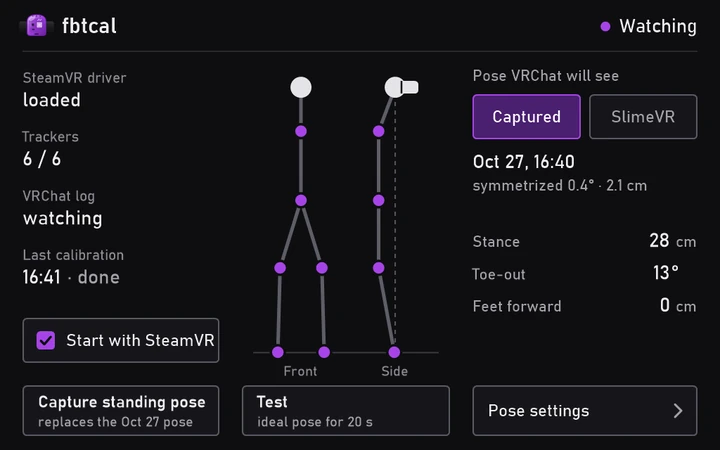
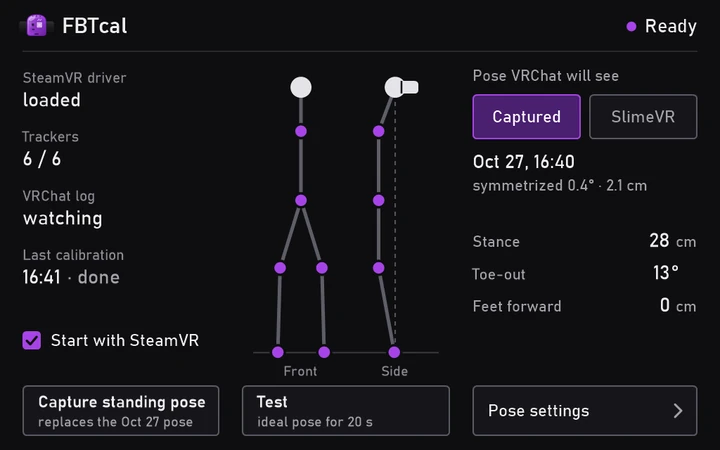
FBTcal 1.1.0 on the hub
The new name on its card, in the page descriptions and in What's new,
and its card picture shows the tab's new look.

Changed region(s): [[0.0306, 0.7156, 0.3056, 0.8089], [0.825, 0.0311, 0.9778, 0.0933], [0.0917, 0.0311, 0.1833, 0.0933]]

diff --git a/news.html b/news.html
@@ -4,7 +4,7 @@
 <meta charset="utf-8">
 <meta name="viewport" content="width=device-width, initial-scale=1">
 <title>What's new · Erik1028's apps</title>
-<meta name="description" content="Every release of OrbitOverlay, fbtcal, VR Gallery, Mixtape, Hexpad, Prisma, Flux and Focal, newest first.">
+<meta name="description" content="Every release of OrbitOverlay, FBTcal, VR Gallery, Mixtape, Hexpad, Prisma, Flux and Focal, newest first.">
 <link rel="canonical" href="https://erik1028.github.io/news.html">
 <link rel="alternate" type="application/atom+xml" title="Erik1028's apps: new releases" href="feed.xml">
 <meta property="og:type" content="website">
@@ -91,11 +91,11 @@ footer a{color:var(--dim)}
 <nav class="crumb"><a href="./">← All apps</a></nav>
 <h1>What's new</h1>
 <p class="by">Every release of every app, newest first. Follow them all with the <a href="feed.xml">feed</a> (RSS / Atom).</p>
-<section class="cal" aria-label="Releases by day"><p class="cal-sum"><b>111 releases</b> in 137 days, since 15 Jun 2026.</p><div class="cal-scroll"><div class="cal-box" style="--weeks:20"><div class="cal-m" aria-hidden="true"><span style="--c:0">Jun</span><span style="--c:2">Jul</span><span style="--c:6">Aug</span><span style="--c:11">Sep</span><span style="--c:15">Oct</span><span style="--c:19">Nov</span></div><div class="cal-w" aria-hidden="true"><span>Mon</span><span></span><span>Wed</span><span></span><span>Fri</span><span></span><span></span></div><div class="cal-g"><a class="d on" href="#d-2026-06-15" style="background:#7fb564" title="15 Jun 2026: Mixtape v0.2, Mixtape v0.3, Mixtape v0.4, Mixtape v0.5, Mixtape v0.5.1, Mixtape v0.6, Mixtape v0.6.1, Mixtape linux-appimage-0.1" aria-label="15 Jun 2026: Mixtape v0.2, Mixtape v0.3, Mixtape v0.4, Mixtape v0.5, Mixtape v0.5.1, Mixtape v0.6, Mixtape v0.6.1, Mixtape linux-appimage-0.1"></a><a class="d on" href="#d-2026-06-16" style="background:#7fb564" title="16 Jun 2026: Mixtape v0.7.0, Mixtape v0.8.0, Mixtape v0.9.0" aria-label="16 Jun 2026: Mixtape v0.7.0, Mixtape v0.8.0, Mixtape v0.9.0"></a><a class="d on" href="#d-2026-06-17" style="background:#7fb564" title="17 Jun 2026: Mixtape v0.10.0" aria-label="17 Jun 2026: Mixtape v0.10.0"></a><span class="d"></span><span class="d"></span><a class="d on" href="#d-2026-06-20" style="background:#7fb564" title="20 Jun 2026: Mixtape v0.11.0" aria-label="20 Jun 2026: Mixtape v0.11.0"></a><span class="d"></span><span class="d"></span><a class="d on" href="#d-2026-06-23" style="background:#3ae0a0" title="23 Jun 2026: Hexpad v1.0.0" aria-label="23 Jun 2026: Hexpad v1.0.0"></a><span class="d"></span><span class="d"></span><span class="d"></span><span class="d"></span><span class="d"></span><span class="d"></span><span class="d"></span><a class="d on" href="#d-2026-07-01" style="background:#4fd2f0" title="1 Jul 2026: Focal v1.0, Focal v1.1" aria-label="1 Jul 2026: Focal v1.0, Focal v1.1"></a><a class="d on" href="#d-2026-07-02" style="background:linear-gradient(135deg,#4fd2f0 0% 50%,#7fb564 50% 100%)" title="2 Jul 2026: Focal v1.2, Focal v1.3, Mixtape v0.12.0, Focal v1.4" aria-label="2 Jul 2026: Focal v1.2, Focal v1.3, Mixtape v0.12.0, Focal v1.4"></a><a class="d on" href="#d-2026-07-03" style="background:linear-gradient(135deg,#4fd2f0 0% 33%,#7fb564 33% 67%,#34d399 67% 100%)" title="3 Jul 2026: Focal v1.5, Mixtape v0.12.1, Flux v1.0, Focal v1.6, Focal v1.7, Focal v1.8, Focal v1.9" aria-label="3 Jul 2026: Focal v1.5, Mixtape v0.12.1, Flux v1.0, Focal v1.6, Focal v1.7, Focal v1.8, Focal v1.9"></a><a class="d on" href="#d-2026-07-04" style="background:linear-gradient(135deg,#4fd2f0 0% 50%,#34d399 50% 100%)" title="4 Jul 2026: Focal v2.0, Flux v1.1, Focal v2.1, Flux v1.2" aria-label="4 Jul 2026: Focal v2.0, Flux v1.1, Focal v2.1, Flux v1.2"></a><span class="d"></span><a class="d on" href="#d-2026-07-06" style="background:#7fb564" title="6 Jul 2026: Mixtape v0.13.0" aria-label="6 Jul 2026: Mixtape v0.13.0"></a><a class="d on" href="#d-2026-07-07" style="background:#7fb564" title="7 Jul 2026: Mixtape v0.14.0" aria-label="7 Jul 2026: Mixtape v0.14.0"></a><a class="d on" href="#d-2026-07-08" style="background:#7fb564" title="8 Jul 2026: Mixtape v0.15.0" aria-label="8 Jul 2026: Mixtape v0.15.0"></a><a class="d on" href="#d-2026-07-09" style="background:linear-gradient(135deg,#7fb564 0% 50%,#34d399 50% 100%)" title="9 Jul 2026: Mixtape v0.16.0, Flux v1.2.1" aria-label="9 Jul 2026: Mixtape v0.16.0, Flux v1.2.1"></a><span class="d"></span><span class="d"></span><span class="d"></span><span class="d"></span><span class="d"></span><span class="d"></span><span class="d"></span><span class="d"></span><span class="d"></span><a class="d on" href="#d-2026-07-19" style="background:#34d399" title="19 Jul 2026: Flux v1.3" aria-label="19 Jul 2026: Flux v1.3"></a><span class="d"></span><span class="d"></span><span class="d"></span><span class="d"></span><span class="d"></span><span class="d"></span><span class="d"></span><span class="d"></span><span class="d"></span><span class="d"></span><span class="d"></span><span class="d"></span><span class="d"></span><span class="d"></span><span class="d"></span><span class="d"></span><span class="d"></span><span class="d"></span><span class="d"></span><a class="d on" href="#d-2026-08-08" style="background:#7fb564" title="8 Aug 2026: Mixtape v0.17.0" aria-label="8 Aug 2026: Mixtape v0.17.0"></a><span class="d"></span><span class="d"></span><span class="d"></span><span class="d"></span><span class="d"></span><span class="d"></span><span class="d"></span><span class="d"></span><span class="d"></span><span class="d"></span><span class="d"></span><span class="d"></span><span class="d"></span><a class="d on" href="#d-2026-08-22" style="background:#3d8bfd" title="22 Aug 2026: VR Gallery v1.1.0, VR Gallery v1.2.0, VR Gallery v1.2.1, VR Gallery v1.2.2, VR Gallery v1.2.3, VR Gallery v1.3.0, VR Gallery v1.3.1, VR Gallery v1.4.0, VR Gallery v1.4.1, VR Gallery v1.5.0, VR Gallery v1.6.0, VR Gallery v1.6.1, VR Gallery v1.7.0, VR Gallery v1.7.1, VR Gallery v1.8.0, VR Gallery v1.8.1, VR Gallery v1.8.2, VR Gallery v1.9.0, VR Gallery v1.10.0, VR Gallery v1.10.1, VR Gallery v1.10.2" aria-label="22 Aug 2026: VR Gallery v1.1.0, VR Gallery v1.2.0, VR Gallery v1.2.1, VR Gallery v1.2.2, VR Gallery v1.2.3, VR Gallery v1.3.0, VR Gallery v1.3.1, VR Gallery v1.4.0, VR Gallery v1.4.1, VR Gallery v1.5.0, VR Gallery v1.6.0, VR Gallery v1.6.1, VR Gallery v1.7.0, VR Gallery v1.7.1, VR Gallery v1.8.0, VR Gallery v1.8.1, VR Gallery v1.8.2, VR Gallery v1.9.0, VR Gallery v1.10.0, VR Gallery v1.10.1, VR Gallery v1.10.2"></a><span class="d"></span><a class="d on" href="#d-2026-08-24" style="background:#3d8bfd" title="24 Aug 2026: VR Gallery v2.0.0" aria-label="24 Aug 2026: VR Gallery v2.0.0"></a><span class="d"></span><span class="d"></span><span class="d"></span><span class="d"></span><span class="d"></span><span class="d"></span><span class="d"></span><span class="d"></span><span class="d"></span><span class="d"></span><span class="d"></span><span class="d"></span><span class="d"></span><span class="d"></span><span class="d"></span><span class="d"></span><span class="d"></span><span class="d"></span><span class="d"></span><a class="d on" href="#d-2026-09-13" style="background:#7fb564" title="13 Sept 2026: Mixtape v0.18.0" aria-label="13 Sept 2026: Mixtape v0.18.0"></a><span class="d"></span><span class="d"></span><span class="d"></span><span class="d"></span><span class="d"></span><a class="d on" href="#d-2026-09-19" style="background:#34d399" title="19 Sept 2026: Flux v1.4" aria-label="19 Sept 2026: Flux v1.4"></a><span class="d"></span><a class="d on" href="#d-2026-09-21" style="background:#00c8aa" title="21 Sept 2026: Prisma v2.0.0" aria-label="21 Sept 2026: Prisma v2.0.0"></a><span class="d"></span><span class="d"></span><span class="d"></span><span class="d"></span><span class="d"></span><span class="d"></span><span class="d"></span><span class="d"></span><a class="d on" href="#d-2026-09-30" style="background:#7fb564" title="30 Sept 2026: Mixtape v0.19.0" aria-label="30 Sept 2026: Mixtape v0.19.0"></a><a class="d on" href="#d-2026-10-01" style="background:#7fb564" title="1 Oct 2026: Mixtape v0.20.0" aria-label="1 Oct 2026: Mixtape v0.20.0"></a><a class="d on" href="#d-2026-10-02" style="background:#7fb564" title="2 Oct 2026: Mixtape v0.21.0" aria-label="2 Oct 2026: Mixtape v0.21.0"></a><span class="d"></span><span class="d"></span><span class="d"></span><span class="d"></span><span class="d"></span><span class="d"></span><span class="d"></span><span class="d"></span><span class="d"></span><span class="d"></span><a class="d on" href="#d-2026-10-13" style="background:#ff5d93" title="13 Oct 2026: OrbitOverlay v1.3.0, OrbitOverlay v1.3.1, OrbitOverlay v1.3.2, OrbitOverlay v1.3.3" aria-label="13 Oct 2026: OrbitOverlay v1.3.0, OrbitOverlay v1.3.1, OrbitOverlay v1.3.2, OrbitOverlay v1.3.3"></a><a class="d on" href="#d-2026-10-14" style="background:#ff5d93" title="14 Oct 2026: OrbitOverlay v1.4.0, OrbitOverlay v1.5.0, OrbitOverlay v1.5.1, OrbitOverlay v1.5.2, OrbitOverlay v1.6.0, OrbitOverlay v1.7.0, OrbitOverlay v1.7.1, OrbitOverlay v1.8.0, OrbitOverlay v1.8.1, OrbitOverlay v1.8.2, OrbitOverlay v1.9.0, OrbitOverlay v1.9.1" aria-label="14 Oct 2026: OrbitOverlay v1.4.0, OrbitOverlay v1.5.0, OrbitOverlay v1.5.1, OrbitOverlay v1.5.2, OrbitOverlay v1.6.0, OrbitOverlay v1.7.0, OrbitOverlay v1.7.1, OrbitOverlay v1.8.0, OrbitOverlay v1.8.1, OrbitOverlay v1.8.2, OrbitOverlay v1.9.0, OrbitOverlay v1.9.1"></a><a class="d on" href="#d-2026-10-15" style="background:#ff5d93" title="15 Oct 2026: OrbitOverlay v1.9.2, OrbitOverlay v1.9.3, OrbitOverlay v1.9.4, OrbitOverlay v1.10.0, OrbitOverlay v1.10.1, OrbitOverlay v1.11.0, OrbitOverlay v1.12.0, OrbitOverlay v1.12.1, OrbitOverlay v1.12.2, OrbitOverlay v1.12.3" aria-label="15 Oct 2026: OrbitOverlay v1.9.2, OrbitOverlay v1.9.3, OrbitOverlay v1.9.4, OrbitOverlay v1.10.0, OrbitOverlay v1.10.1, OrbitOverlay v1.11.0, OrbitOverlay v1.12.0, OrbitOverlay v1.12.1, OrbitOverlay v1.12.2, OrbitOverlay v1.12.3"></a><a class="d on" href="#d-2026-10-16" style="background:linear-gradient(135deg,#3d8bfd 0% 25%,#3ae0a0 25% 50%,#ff5d93 50% 75%,#00c8aa 75% 100%)" title="16 Oct 2026: VR Gallery v2.16.1, Hexpad v2.0.0, OrbitOverlay v1.13.0, OrbitOverlay v1.13.1, VR Gallery v2.16.2, OrbitOverlay v1.14.0, Prisma v2.1.0" aria-label="16 Oct 2026: VR Gallery v2.16.1, Hexpad v2.0.0, OrbitOverlay v1.13.0, OrbitOverlay v1.13.1, VR Gallery v2.16.2, OrbitOverlay v1.14.0, Prisma v2.1.0"></a><a class="d on" href="#d-2026-10-17" style="background:linear-gradient(135deg,#ff5d93 0% 50%,#34d399 50% 100%)" title="17 Oct 2026: OrbitOverlay v1.14.1, Flux v1.5" aria-label="17 Oct 2026: OrbitOverlay v1.14.1, Flux v1.5"></a><a class="d on" href="#d-2026-10-18" style="background:linear-gradient(135deg,#ff5d93 0% 50%,#7fb564 50% 100%)" title="18 Oct 2026: OrbitOverlay v1.15.0, OrbitOverlay v1.15.1, Mixtape v0.22.0" aria-label="18 Oct 2026: OrbitOverlay v1.15.0, OrbitOverlay v1.15.1, Mixtape v0.22.0"></a><a class="d on" href="#d-2026-10-19" style="background:linear-gradient(135deg,#ff5d93 0% 50%,#7fb564 50% 100%)" title="19 Oct 2026: OrbitOverlay v1.16.0, Mixtape v0.23.0" aria-label="19 Oct 2026: OrbitOverlay v1.16.0, Mixtape v0.23.0"></a><span class="d"></span><span class="d"></span><span class="d"></span><a class="d on" href="#d-2026-10-23" style="background:#ff5d93" title="23 Oct 2026: OrbitOverlay v1.17.0" aria-label="23 Oct 2026: OrbitOverlay v1.17.0"></a><a class="d on" href="#d-2026-10-24" style="background:linear-gradient(135deg,#34d399 0% 50%,#ff5d93 50% 100%)" title="24 Oct 2026: Flux v1.5.1, OrbitOverlay v1.18.0" aria-label="24 Oct 2026: Flux v1.5.1, OrbitOverlay v1.18.0"></a><span class="d"></span><span class="d"></span><span class="d"></span><span class="d"></span><a class="d on" href="#d-2026-10-29" style="background:#a743e8" title="29 Oct 2026: fbtcal v1.0.0, fbtcal v1.0.1" aria-label="29 Oct 2026: fbtcal v1.0.0, fbtcal v1.0.1"></a><span class="d out"></span><span class="d out"></span><span class="d out"></span></div></div></div><p class="cal-key"><span style="--acc:#ff5d93"><i></i>OrbitOverlay</span><span style="--acc:#a743e8"><i></i>fbtcal</span><span style="--acc:#3d8bfd"><i></i>VR Gallery</span><span style="--acc:#7fb564"><i></i>Mixtape</span><span style="--acc:#3ae0a0"><i></i>Hexpad</span><span style="--acc:#00c8aa"><i></i>Prisma</span><span style="--acc:#34d399"><i></i>Flux</span><span style="--acc:#4fd2f0"><i></i>Focal</span></p></section>
+<section class="cal" aria-label="Releases by day"><p class="cal-sum"><b>112 releases</b> in 137 days, since 15 Jun 2026.</p><div class="cal-scroll"><div class="cal-box" style="--weeks:20"><div class="cal-m" aria-hidden="true"><span style="--c:0">Jun</span><span style="--c:2">Jul</span><span style="--c:6">Aug</span><span style="--c:11">Sep</span><span style="--c:15">Oct</span><span style="--c:19">Nov</span></div><div class="cal-w" aria-hidden="true"><span>Mon</span><span></span><span>Wed</span><span></span><span>Fri</span><span></span><span></span></div><div class="cal-g"><a class="d on" href="#d-2026-06-15" style="background:#7fb564" title="15 Jun 2026: Mixtape v0.2, Mixtape v0.3, Mixtape v0.4, Mixtape v0.5, Mixtape v0.5.1, Mixtape v0.6, Mixtape v0.6.1, Mixtape linux-appimage-0.1" aria-label="15 Jun 2026: Mixtape v0.2, Mixtape v0.3, Mixtape v0.4, Mixtape v0.5, Mixtape v0.5.1, Mixtape v0.6, Mixtape v0.6.1, Mixtape linux-appimage-0.1"></a><a class="d on" href="#d-2026-06-16" style="background:#7fb564" title="16 Jun 2026: Mixtape v0.7.0, Mixtape v0.8.0, Mixtape v0.9.0" aria-label="16 Jun 2026: Mixtape v0.7.0, Mixtape v0.8.0, Mixtape v0.9.0"></a><a class="d on" href="#d-2026-06-17" style="background:#7fb564" title="17 Jun 2026: Mixtape v0.10.0" aria-label="17 Jun 2026: Mixtape v0.10.0"></a><span class="d"></span><span class="d"></span><a class="d on" href="#d-2026-06-20" style="background:#7fb564" title="20 Jun 2026: Mixtape v0.11.0" aria-label="20 Jun 2026: Mixtape v0.11.0"></a><span class="d"></span><span class="d"></span><a class="d on" href="#d-2026-06-23" style="background:#3ae0a0" title="23 Jun 2026: Hexpad v1.0.0" aria-label="23 Jun 2026: Hexpad v1.0.0"></a><span class="d"></span><span class="d"></span><span class="d"></span><span class="d"></span><span class="d"></span><span class="d"></span><span class="d"></span><a class="d on" href="#d-2026-07-01" style="background:#4fd2f0" title="1 Jul 2026: Focal v1.0, Focal v1.1" aria-label="1 Jul 2026: Focal v1.0, Focal v1.1"></a><a class="d on" href="#d-2026-07-02" style="background:linear-gradient(135deg,#4fd2f0 0% 50%,#7fb564 50% 100%)" title="2 Jul 2026: Focal v1.2, Focal v1.3, Mixtape v0.12.0, Focal v1.4" aria-label="2 Jul 2026: Focal v1.2, Focal v1.3, Mixtape v0.12.0, Focal v1.4"></a><a class="d on" href="#d-2026-07-03" style="background:linear-gradient(135deg,#4fd2f0 0% 33%,#7fb564 33% 67%,#34d399 67% 100%)" title="3 Jul 2026: Focal v1.5, Mixtape v0.12.1, Flux v1.0, Focal v1.6, Focal v1.7, Focal v1.8, Focal v1.9" aria-label="3 Jul 2026: Focal v1.5, Mixtape v0.12.1, Flux v1.0, Focal v1.6, Focal v1.7, Focal v1.8, Focal v1.9"></a><a class="d on" href="#d-2026-07-04" style="background:linear-gradient(135deg,#4fd2f0 0% 50%,#34d399 50% 100%)" title="4 Jul 2026: Focal v2.0, Flux v1.1, Focal v2.1, Flux v1.2" aria-label="4 Jul 2026: Focal v2.0, Flux v1.1, Focal v2.1, Flux v1.2"></a><span class="d"></span><a class="d on" href="#d-2026-07-06" style="background:#7fb564" title="6 Jul 2026: Mixtape v0.13.0" aria-label="6 Jul 2026: Mixtape v0.13.0"></a><a class="d on" href="#d-2026-07-07" style="background:#7fb564" title="7 Jul 2026: Mixtape v0.14.0" aria-label="7 Jul 2026: Mixtape v0.14.0"></a><a class="d on" href="#d-2026-07-08" style="background:#7fb564" title="8 Jul 2026: Mixtape v0.15.0" aria-label="8 Jul 2026: Mixtape v0.15.0"></a><a class="d on" href="#d-2026-07-09" style="background:linear-gradient(135deg,#7fb564 0% 50%,#34d399 50% 100%)" title="9 Jul 2026: Mixtape v0.16.0, Flux v1.2.1" aria-label="9 Jul 2026: Mixtape v0.16.0, Flux v1.2.1"></a><span class="d"></span><span class="d"></span><span class="d"></span><span class="d"></span><span class="d"></span><span class="d"></span><span class="d"></span><span class="d"></span><span class="d"></span><a class="d on" href="#d-2026-07-19" style="background:#34d399" title="19 Jul 2026: Flux v1.3" aria-label="19 Jul 2026: Flux v1.3"></a><span class="d"></span><span class="d"></span><span class="d"></span><span class="d"></span><span class="d"></span><span class="d"></span><span class="d"></span><span class="d"></span><span class="d"></span><span class="d"></span><span class="d"></span><span class="d"></span><span class="d"></span><span class="d"></span><span class="d"></span><span class="d"></span><span class="d"></span><span class="d"></span><span class="d"></span><a class="d on" href="#d-2026-08-08" style="background:#7fb564" title="8 Aug 2026: Mixtape v0.17.0" aria-label="8 Aug 2026: Mixtape v0.17.0"></a><span class="d"></span><span class="d"></span><span class="d"></span><span class="d"></span><span class="d"></span><span class="d"></span><span class="d"></span><span class="d"></span><span class="d"></span><span class="d"></span><span class="d"></span><span class="d"></span><span class="d"></span><a class="d on" href="#d-2026-08-22" style="background:#3d8bfd" title="22 Aug 2026: VR Gallery v1.1.0, VR Gallery v1.2.0, VR Gallery v1.2.1, VR Gallery v1.2.2, VR Gallery v1.2.3, VR Gallery v1.3.0, VR Gallery v1.3.1, VR Gallery v1.4.0, VR Gallery v1.4.1, VR Gallery v1.5.0, VR Gallery v1.6.0, VR Gallery v1.6.1, VR Gallery v1.7.0, VR Gallery v1.7.1, VR Gallery v1.8.0, VR Gallery v1.8.1, VR Gallery v1.8.2, VR Gallery v1.9.0, VR Gallery v1.10.0, VR Gallery v1.10.1, VR Gallery v1.10.2" aria-label="22 Aug 2026: VR Gallery v1.1.0, VR Gallery v1.2.0, VR Gallery v1.2.1, VR Gallery v1.2.2, VR Gallery v1.2.3, VR Gallery v1.3.0, VR Gallery v1.3.1, VR Gallery v1.4.0, VR Gallery v1.4.1, VR Gallery v1.5.0, VR Gallery v1.6.0, VR Gallery v1.6.1, VR Gallery v1.7.0, VR Gallery v1.7.1, VR Gallery v1.8.0, VR Gallery v1.8.1, VR Gallery v1.8.2, VR Gallery v1.9.0, VR Gallery v1.10.0, VR Gallery v1.10.1, VR Gallery v1.10.2"></a><span class="d"></span><a class="d on" href="#d-2026-08-24" style="background:#3d8bfd" title="24 Aug 2026: VR Gallery v2.0.0" aria-label="24 Aug 2026: VR Gallery v2.0.0"></a><span class="d"></span><span class="d"></span><span class="d"></span><span class="d"></span><span class="d"></span><span class="d"></span><span class="d"></span><span class="d"></span><span class="d"></span><span class="d"></span><span class="d"></span><span class="d"></span><span class="d"></span><span class="d"></span><span class="d"></span><span class="d"></span><span class="d"></span><span class="d"></span><span class="d"></span><a class="d on" href="#d-2026-09-13" style="background:#7fb564" title="13 Sept 2026: Mixtape v0.18.0" aria-label="13 Sept 2026: Mixtape v0.18.0"></a><span class="d"></span><span class="d"></span><span class="d"></span><span class="d"></span><span class="d"></span><a class="d on" href="#d-2026-09-19" style="background:#34d399" title="19 Sept 2026: Flux v1.4" aria-label="19 Sept 2026: Flux v1.4"></a><span class="d"></span><a class="d on" href="#d-2026-09-21" style="background:#00c8aa" title="21 Sept 2026: Prisma v2.0.0" aria-label="21 Sept 2026: Prisma v2.0.0"></a><span class="d"></span><span class="d"></span><span class="d"></span><span class="d"></span><span class="d"></span><span class="d"></span><span class="d"></span><span class="d"></span><a class="d on" href="#d-2026-09-30" style="background:#7fb564" title="30 Sept 2026: Mixtape v0.19.0" aria-label="30 Sept 2026: Mixtape v0.19.0"></a><a class="d on" href="#d-2026-10-01" style="background:#7fb564" title="1 Oct 2026: Mixtape v0.20.0" aria-label="1 Oct 2026: Mixtape v0.20.0"></a><a class="d on" href="#d-2026-10-02" style="background:#7fb564" title="2 Oct 2026: Mixtape v0.21.0" aria-label="2 Oct 2026: Mixtape v0.21.0"></a><span class="d"></span><span class="d"></span><span class="d"></span><span class="d"></span><span class="d"></span><span class="d"></span><span class="d"></span><span class="d"></span><span class="d"></span><span class="d"></span><a class="d on" href="#d-2026-10-13" style="background:#ff5d93" title="13 Oct 2026: OrbitOverlay v1.3.0, OrbitOverlay v1.3.1, OrbitOverlay v1.3.2, OrbitOverlay v1.3.3" aria-label="13 Oct 2026: OrbitOverlay v1.3.0, OrbitOverlay v1.3.1, OrbitOverlay v1.3.2, OrbitOverlay v1.3.3"></a><a class="d on" href="#d-2026-10-14" style="background:#ff5d93" title="14 Oct 2026: OrbitOverlay v1.4.0, OrbitOverlay v1.5.0, OrbitOverlay v1.5.1, OrbitOverlay v1.5.2, OrbitOverlay v1.6.0, OrbitOverlay v1.7.0, OrbitOverlay v1.7.1, OrbitOverlay v1.8.0, OrbitOverlay v1.8.1, OrbitOverlay v1.8.2, OrbitOverlay v1.9.0, OrbitOverlay v1.9.1" aria-label="14 Oct 2026: OrbitOverlay v1.4.0, OrbitOverlay v1.5.0, OrbitOverlay v1.5.1, OrbitOverlay v1.5.2, OrbitOverlay v1.6.0, OrbitOverlay v1.7.0, OrbitOverlay v1.7.1, OrbitOverlay v1.8.0, OrbitOverlay v1.8.1, OrbitOverlay v1.8.2, OrbitOverlay v1.9.0, OrbitOverlay v1.9.1"></a><a class="d on" href="#d-2026-10-15" style="background:#ff5d93" title="15 Oct 2026: OrbitOverlay v1.9.2, OrbitOverlay v1.9.3, OrbitOverlay v1.9.4, OrbitOverlay v1.10.0, OrbitOverlay v1.10.1, OrbitOverlay v1.11.0, OrbitOverlay v1.12.0, OrbitOverlay v1.12.1, OrbitOverlay v1.12.2, OrbitOverlay v1.12.3" aria-label="15 Oct 2026: OrbitOverlay v1.9.2, OrbitOverlay v1.9.3, OrbitOverlay v1.9.4, OrbitOverlay v1.10.0, OrbitOverlay v1.10.1, OrbitOverlay v1.11.0, OrbitOverlay v1.12.0, OrbitOverlay v1.12.1, OrbitOverlay v1.12.2, OrbitOverlay v1.12.3"></a><a class="d on" href="#d-2026-10-16" style="background:linear-gradient(135deg,#3d8bfd 0% 25%,#3ae0a0 25% 50%,#ff5d93 50% 75%,#00c8aa 75% 100%)" title="16 Oct 2026: VR Gallery v2.16.1, Hexpad v2.0.0, OrbitOverlay v1.13.0, OrbitOverlay v1.13.1, VR Gallery v2.16.2, OrbitOverlay v1.14.0, Prisma v2.1.0" aria-label="16 Oct 2026: VR Gallery v2.16.1, Hexpad v2.0.0, OrbitOverlay v1.13.0, OrbitOverlay v1.13.1, VR Gallery v2.16.2, OrbitOverlay v1.14.0, Prisma v2.1.0"></a><a class="d on" href="#d-2026-10-17" style="background:linear-gradient(135deg,#ff5d93 0% 50%,#34d399 50% 100%)" title="17 Oct 2026: OrbitOverlay v1.14.1, Flux v1.5" aria-label="17 Oct 2026: OrbitOverlay v1.14.1, Flux v1.5"></a><a class="d on" href="#d-2026-10-18" style="background:linear-gradient(135deg,#ff5d93 0% 50%,#7fb564 50% 100%)" title="18 Oct 2026: OrbitOverlay v1.15.0, OrbitOverlay v1.15.1, Mixtape v0.22.0" aria-label="18 Oct 2026: OrbitOverlay v1.15.0, OrbitOverlay v1.15.1, Mixtape v0.22.0"></a><a class="d on" href="#d-2026-10-19" style="background:linear-gradient(135deg,#ff5d93 0% 50%,#7fb564 50% 100%)" title="19 Oct 2026: OrbitOverlay v1.16.0, Mixtape v0.23.0" aria-label="19 Oct 2026: OrbitOverlay v1.16.0, Mixtape v0.23.0"></a><span class="d"></span><span class="d"></span><span class="d"></span><a class="d on" href="#d-2026-10-23" style="background:#ff5d93" title="23 Oct 2026: OrbitOverlay v1.17.0" aria-label="23 Oct 2026: OrbitOverlay v1.17.0"></a><a class="d on" href="#d-2026-10-24" style="background:linear-gradient(135deg,#34d399 0% 50%,#ff5d93 50% 100%)" title="24 Oct 2026: Flux v1.5.1, OrbitOverlay v1.18.0" aria-label="24 Oct 2026: Flux v1.5.1, OrbitOverlay v1.18.0"></a><span class="d"></span><span class="d"></span><span class="d"></span><span class="d"></span><a class="d on" href="#d-2026-10-29" style="background:#a743e8" title="29 Oct 2026: FBTcal v1.0.0, FBTcal v1.0.1, FBTcal v1.1.0" aria-label="29 Oct 2026: FBTcal v1.0.0, FBTcal v1.0.1, FBTcal v1.1.0"></a><span class="d out"></span><span class="d out"></span><span class="d out"></span></div></div></div><p class="cal-key"><span style="--acc:#ff5d93"><i></i>OrbitOverlay</span><span style="--acc:#a743e8"><i></i>FBTcal</span><span style="--acc:#3d8bfd"><i></i>VR Gallery</span><span style="--acc:#7fb564"><i></i>Mixtape</span><span style="--acc:#3ae0a0"><i></i>Hexpad</span><span style="--acc:#00c8aa"><i></i>Prisma</span><span style="--acc:#34d399"><i></i>Flux</span><span style="--acc:#4fd2f0"><i></i>Focal</span></p></section>
 <div class="chips" role="group" aria-label="Show the releases of">
-<button type="button" aria-pressed="true" data-app="">All <span>111</span></button>
+<button type="button" aria-pressed="true" data-app="">All <span>112</span></button>
 <button type="button" aria-pressed="false" data-app="OrbitOverlay" style="--acc:#ff5d93"><img src="img/orbitoverlay.svg" width="20" height="20" alt="">OrbitOverlay <span>35</span></button>
-<button type="button" aria-pressed="false" data-app="fbtcal" style="--acc:#a743e8"><img src="img/fbtcal.png" width="20" height="20" alt="">fbtcal <span>2</span></button>
+<button type="button" aria-pressed="false" data-app="fbtcal" style="--acc:#a743e8"><img src="img/fbtcal.png" width="20" height="20" alt="">FBTcal <span>3</span></button>
 <button type="button" aria-pressed="false" data-app="VRGallery" style="--acc:#3d8bfd"><img src="img/vrgallery.png" width="20" height="20" alt="">VR Gallery <span>24</span></button>
 <button type="button" aria-pressed="false" data-app="Mixtape" style="--acc:#7fb564"><img src="img/mixtape.png" width="20" height="20" alt="">Mixtape <span>26</span></button>
 <button type="button" aria-pressed="false" data-app="ajazz-dock" style="--acc:#3ae0a0"><img src="img/hexpad.png" width="20" height="20" alt="">Hexpad <span>2</span></button>
@@ -105,8 +105,9 @@ footer a{color:var(--dim)}
 </div>
 <div id="list">
 <h2 class="month">October 2026</h2>
-<article class="entry" id="d-2026-10-29" data-app="fbtcal" style="--acc:#a743e8"><time datetime="2026-10-29">29 Oct 2026</time><div class="body"><div class="hd"><a href="fbtcal/"><img src="img/fbtcal.png" width="24" height="24" alt="">fbtcal</a><code>v1.0.1</code></div><p>The installer now puts fbtcal on your desktop too: a Desktop shortcut checkbox in the setup window, ticked for a new install. An update keeps the shortcut only if it is still on your desktop, so a shortcut you deleted doesn&#x27;t come back. Uninstall removes it together with the Start menu one.</p><a class="more" href="https://github.com/Erik1028/fbtcal/releases/tag/v1.0.1">Release notes</a></div></article>
-<article class="entry" data-app="fbtcal" style="--acc:#a743e8"><time datetime="2026-10-29">29 Oct 2026</time><div class="body"><div class="hd"><a href="fbtcal/"><img src="img/fbtcal.png" width="24" height="24" alt="">fbtcal</a><code>v1.0.0</code></div><p>The first public release.</p><ul><li>Automatic: notices when VRChat opens Calibrate FBT (from VRChat&#x27;s log) and holds the standing pose for that moment.</li><li>Standing pose from your SlimeVR body proportions (SlimeVR server v22 or later), or captured once while you stand.</li><li>Fine-tuning: stance width, toe-out, feet forward/back, with a 20-second Test you can adjust while it runs.</li></ul><a class="more" href="https://github.com/Erik1028/fbtcal/releases/tag/v1.0.0">Release notes</a></div></article>
+<article class="entry" id="d-2026-10-29" data-app="fbtcal" style="--acc:#a743e8"><time datetime="2026-10-29">29 Oct 2026</time><div class="body"><div class="hd"><a href="fbtcal/"><img src="img/fbtcal.png" width="24" height="24" alt="">FBTcal</a><code>v1.1.0</code></div><ul><li>FBTcal on the desktop. The desktop shortcut or a click on the tray icon opens a window with the same view as the SteamVR tab, clicked with the mouse. It also works…</li><li>A darker tray menu in the app&#x27;s colours, with Open FBTcal at the top.</li><li>&quot;Ready&quot; instead of &quot;Watching&quot; in the SteamVR tab, and a plainer Start with SteamVR checkbox.</li></ul><a class="more" href="https://github.com/Erik1028/fbtcal/releases/tag/v1.1.0">Release notes</a></div></article>
+<article class="entry" data-app="fbtcal" style="--acc:#a743e8"><time datetime="2026-10-29">29 Oct 2026</time><div class="body"><div class="hd"><a href="fbtcal/"><img src="img/fbtcal.png" width="24" height="24" alt="">FBTcal</a><code>v1.0.1</code></div><p>The installer now puts fbtcal on your desktop too: a Desktop shortcut checkbox in the setup window, ticked for a new install. An update keeps the shortcut only if it is still on your desktop, so a shortcut you deleted doesn&#x27;t come back. Uninstall removes it together with the Start menu one.</p><a class="more" href="https://github.com/Erik1028/fbtcal/releases/tag/v1.0.1">Release notes</a></div></article>
+<article class="entry" data-app="fbtcal" style="--acc:#a743e8"><time datetime="2026-10-29">29 Oct 2026</time><div class="body"><div class="hd"><a href="fbtcal/"><img src="img/fbtcal.png" width="24" height="24" alt="">FBTcal</a><code>v1.0.0</code></div><p>The first public release.</p><ul><li>Automatic: notices when VRChat opens Calibrate FBT (from VRChat&#x27;s log) and holds the standing pose for that moment.</li><li>Standing pose from your SlimeVR body proportions (SlimeVR server v22 or later), or captured once while you stand.</li><li>Fine-tuning: stance width, toe-out, feet forward/back, with a 20-second Test you can adjust while it runs.</li></ul><a class="more" href="https://github.com/Erik1028/fbtcal/releases/tag/v1.0.0">Release notes</a></div></article>
 <article class="entry" id="d-2026-10-24" data-app="OrbitOverlay" style="--acc:#ff5d93"><time datetime="2026-10-24">24 Oct 2026</time><div class="body"><div class="hd"><a href="OrbitOverlay/"><img src="img/orbitoverlay.svg" width="24" height="24" alt="">OrbitOverlay</a><code>v1.18.0</code></div><ul><li>Photo gallery: the photo widget&#x27;s opened view (and On this day&#x27;s) has a Gallery button - every VRChat photo you took, one sheet of them as in VR Gallery (or by day…</li><li>With VR Gallery installed, the gallery knows what it knows: each day&#x27;s worlds, the people in a photo, your favourites (a heart; the heading&#x27;s heart shows only those).…</li><li>The opened photo: a tap zooms in where you tap (drag to look round, tap again for the whole photo); a slideshow; and Send - VR Gallery sends your newest photo to its…</li></ul><a class="more" href="https://github.com/Erik1028/OrbitOverlay/releases/tag/v1.18.0">Release notes</a></div></article>
 <article class="entry" data-app="Flux" style="--acc:#34d399"><time datetime="2026-10-24">24 Oct 2026</time><div class="body"><div class="hd"><a href="Flux/"><img src="img/flux.png" width="24" height="24" alt="">Flux</a><code>v1.5.1</code></div><h3>Lighter on every refresh</h3><p>Every refresh now does about a third of the drawing work it did in 1.5, and the title-bar buttons are back to a normal size. Just replace your old Flux.exe; your settings and leak log carry over.</p><ul><li>The process list only redraws what changed. It used to delete and rebuild every visible row (about 120 canvas items) once a second, even when nothing on screen had…</li><li>The metric cards and the hero card keep their canvas items. They used to be wiped and redrawn on every refresh. Now only the numbers, bars and graphs that actually…</li><li>The network card reads download and upload in one go instead of querying the same counters twice (2.0 ms → 0.9 ms per refresh).</li></ul><a class="more" href="https://github.com/Erik1028/Flux/releases/tag/v1.5.1">Release notes</a></div></article>
 <article class="entry" id="d-2026-10-23" data-app="OrbitOverlay" style="--acc:#ff5d93"><time datetime="2026-10-23">23 Oct 2026</time><div class="body"><div class="hd"><a href="OrbitOverlay/"><img src="img/orbitoverlay.svg" width="24" height="24" alt="">OrbitOverlay</a><code>v1.17.0</code></div><ul><li>Virtual monitors (Desktops, at the right of the monitor map): screens that exist only in VR, to put windows on. &quot;Add&quot; installs the free Virtual Display Driver once…</li><li>Your monitors come in front of you each time you show them (the watch&#x27;s button, both grips twice, the settings, the tray), as SteamVR&#x27;s dashboard does: Desktops &gt;…</li><li>How far: Desktops &gt; Distance (0.5 - 3 m) - Reset position, Recenter and &quot;Join into one curved screen&quot; put the monitors that far away; a curved row is bent round you…</li></ul><a class="more" href="https://github.com/Erik1028/OrbitOverlay/releases/tag/v1.17.0">Release notes</a></div></article>
@@ -223,7 +224,7 @@ footer a{color:var(--dim)}
 </div>
 <p class="none" hidden>No releases here.</p>
 <footer>
-<p>One app only? Its own feed: <a href="https://github.com/Erik1028/OrbitOverlay/releases.atom">OrbitOverlay</a> · <a href="https://github.com/Erik1028/fbtcal/releases.atom">fbtcal</a> · <a href="https://github.com/Erik1028/VRGallery/releases.atom">VR Gallery</a> · <a href="https://github.com/Erik1028/Mixtape/releases.atom">Mixtape</a> · <a href="https://github.com/Erik1028/ajazz-dock/releases.atom">Hexpad</a> · <a href="https://github.com/Erik1028/Prisma/releases.atom">Prisma</a> · <a href="https://github.com/Erik1028/Flux/releases.atom">Flux</a> · <a href="https://github.com/Erik1028/focal/releases.atom">Focal</a>.</p>
+<p>One app only? Its own feed: <a href="https://github.com/Erik1028/OrbitOverlay/releases.atom">OrbitOverlay</a> · <a href="https://github.com/Erik1028/fbtcal/releases.atom">FBTcal</a> · <a href="https://github.com/Erik1028/VRGallery/releases.atom">VR Gallery</a> · <a href="https://github.com/Erik1028/Mixtape/releases.atom">Mixtape</a> · <a href="https://github.com/Erik1028/ajazz-dock/releases.atom">Hexpad</a> · <a href="https://github.com/Erik1028/Prisma/releases.atom">Prisma</a> · <a href="https://github.com/Erik1028/Flux/releases.atom">Flux</a> · <a href="https://github.com/Erik1028/focal/releases.atom">Focal</a>.</p>
 <p>Made from the apps' GitHub releases, once a day. Free Windows apps by <a href="https://github.com/Erik1028">Erik1028</a>.</p>
 </footer>
 </main>

diff --git a/index.html b/index.html
@@ -4,13 +4,13 @@
 <meta charset="utf-8">
 <meta name="viewport" content="width=device-width, initial-scale=1">
 <title>Erik1028 · apps for VR, VRChat, iPods and the desk around them</title>
-<meta name="description" content="Free Windows apps by Erik1028: OrbitOverlay (SteamVR overlay), fbtcal (VRChat full-body calibration), VR Gallery (VRChat photo album), Mixtape (click-wheel iPods), Hexpad (Ajazz stream dock), Prisma (RGB lighting), Flux (GPU memory monitor) and Focal (iPhone as a webcam).">
+<meta name="description" content="Free Windows apps by Erik1028: OrbitOverlay (SteamVR overlay), FBTcal (VRChat full-body calibration), VR Gallery (VRChat photo album), Mixtape (click-wheel iPods), Hexpad (Ajazz stream dock), Prisma (RGB lighting), Flux (GPU memory monitor) and Focal (iPhone as a webcam).">
 <link rel="canonical" href="https://erik1028.github.io/">
 <meta name="author" content="Erik1028">
 <meta property="og:type" content="website">
 <meta property="og:site_name" content="Erik1028">
 <meta property="og:title" content="Apps for VR, VRChat, iPods and the desk around them">
-<meta property="og:description" content="OrbitOverlay, fbtcal, VR Gallery, Mixtape, Hexpad, Prisma, Flux and Focal: free Windows apps by Erik1028.">
+<meta property="og:description" content="OrbitOverlay, FBTcal, VR Gallery, Mixtape, Hexpad, Prisma, Flux and Focal: free Windows apps by Erik1028.">
 <meta property="og:image" content="https://erik1028.github.io/og.png">
 <meta property="og:url" content="https://erik1028.github.io/">
 <meta name="twitter:card" content="summary_large_image">
@@ -24,7 +24,7 @@ try{var l=(location.hash.match(/^#look-(95|cyber|terminal)$/)||[])[1]||localStor
 <link rel="preload" href="fonts/permanent-marker.woff2" as="font" type="font/woff2" crossorigin>
 <style>
 /* An index of the apps. Each card shows the thing itself (the watch over a VR floor, a wall of VRChat photos,
-   a hand-labelled tape, the stream dock with its own key pictures, Prisma's and Flux's own windows, fbtcal's SteamVR tab, a phone filming) in its own
+   a hand-labelled tape, the stream dock with its own key pictures, Prisma's and Flux's own windows, FBTcal's SteamVR tab, a phone filming) in its own
    app's accent; the page around them stays quiet. OrbitOverlay's card is twice as wide, so the eight fill
    two rows of four and Focal starts a third. */
 @font-face{font-family:"Permanent Marker";src:url(fonts/permanent-marker.woff2) format("woff2");font-display:swap}
@@ -131,7 +131,7 @@ h2 a:focus-visible{outline:0}
 .v-flux img{width:104%;height:auto;max-width:none;margin:10% 0 0 9%;border-radius:10px;border:1px solid #24312c;box-shadow:0 18px 40px rgba(0,0,0,.6);
   transform:rotate(-3deg);transform-origin:0 0;transition:transform .6s cubic-bezier(.2,.7,.2,1)}
 .app:hover .v-flux img{transform:rotate(-3deg) translate(-4%,-3%)}
-/* fbtcal: its SteamVR dashboard tab, with made-up data */
+/* FBTcal: its SteamVR dashboard tab, with made-up data */
 .v-fbtcal{background:linear-gradient(160deg,#1c1226,#0e0e10 70%);align-items:flex-start}
 .v-fbtcal img{width:104%;height:auto;max-width:none;margin:10% 0 0 9%;border-radius:8px;border:1px solid #2a2a30;box-shadow:0 18px 40px rgba(0,0,0,.6);
   transform:rotate(-3deg);transform-origin:0 0;transition:transform .6s cubic-bezier(.2,.7,.2,1)}
@@ -208,11 +208,11 @@ footer a{color:var(--dim)}
 </article>
 
 <article class="app" style="--acc:#a743e8">
-<div class="tb" aria-hidden="true"><img src="img/fbtcal.png" width="16" height="16" alt=""><b>fbtcal</b><span class="tbb"><i></i><i></i><i></i></span></div>
+<div class="tb" aria-hidden="true"><img src="img/fbtcal.png" width="16" height="16" alt=""><b>FBTcal</b><span class="tbb"><i></i><i></i><i></i></span></div>
 <div class="visual v-fbtcal" aria-hidden="true"><img src="img/fbtcal-panel.webp" width="720" height="450" alt="" loading="lazy"></div>
 <div class="meta"><img src="img/fbtcal.png" width="48" height="48" alt=""><div>
-<h2><a href="https://erik1028.github.io/fbtcal/">fbtcal</a></h2>
-<span class="rel" data-repo="Erik1028/fbtcal" title="Latest release"><i></i>v1.0.1 · 29 Oct 2026</span>
+<h2><a href="https://erik1028.github.io/fbtcal/">FBTcal</a></h2>
+<span class="rel" data-repo="Erik1028/fbtcal" title="Latest release"><i></i>v1.1.0 · 29 Oct 2026</span>
 <p>VRChat full-body calibration without standing up: from bed, a chair or wherever you are. Made for SlimeVR.</p>
 <span class="links"><a href="https://erik1028.github.io/fbtcal/">Website</a> · <a href="https://github.com/Erik1028/fbtcal">GitHub</a></span>
 </div></div>

diff --git a/tools/news.py b/tools/news.py
@@ -19,7 +19,7 @@ SITE = 'https://erik1028.github.io/'
 # repo, name on the hub, accent, icon, page (the cards' order)
 APPS = [
     ('OrbitOverlay', 'OrbitOverlay', '#ff5d93', 'img/orbitoverlay.svg', 'OrbitOverlay/'),
-    ('fbtcal', 'fbtcal', '#a743e8', 'img/fbtcal.png', 'fbtcal/'),
+    ('fbtcal', 'FBTcal', '#a743e8', 'img/fbtcal.png', 'fbtcal/'),
     ('VRGallery', 'VR Gallery', '#3d8bfd', 'img/vrgallery.png', 'VRGallery/'),
     ('Mixtape', 'Mixtape', '#7fb564', 'img/mixtape.png', 'Mixtape/'),
     ('ajazz-dock', 'Hexpad', '#3ae0a0', 'img/hexpad.png', 'ajazz-dock/'),
@@ -260,7 +260,7 @@ def build(src=None):
                      f'<updated>{e["when"]}</updated><published>{e["when"]}</published>'
                      f'<category term="{X(e["app"])}"/><summary>{X(text)}</summary></entry>')
     feed = ('<?xml version="1.0" encoding="utf-8"?>\n<feed xmlns="http://www.w3.org/2005/Atom">'
-            f'<title>Erik1028\'s apps: new releases</title><subtitle>OrbitOverlay, fbtcal, VR Gallery, Mixtape, Hexpad, Prisma, Flux and Focal</subtitle>'
+            f'<title>Erik1028\'s apps: new releases</title><subtitle>OrbitOverlay, FBTcal, VR Gallery, Mixtape, Hexpad, Prisma, Flux and Focal</subtitle>'
             f'<link href="{SITE}news.html"/><link rel="self" href="{SITE}feed.xml"/><id>{SITE}news.html</id>'
             f'<updated>{entries[0]["when"]}</updated><author><name>Erik1028</name><uri>https://github.com/Erik1028</uri></author>\n'
             + '\n'.join(items) + '\n</feed>\n')
@@ -286,7 +286,7 @@ PAGE = '''<!doctype html>
 <meta charset="utf-8">
 <meta name="viewport" content="width=device-width, initial-scale=1">
 <title>What's new · Erik1028's apps</title>
-<meta name="description" content="Every release of OrbitOverlay, fbtcal, VR Gallery, Mixtape, Hexpad, Prisma, Flux and Focal, newest first.">
+<meta name="description" content="Every release of OrbitOverlay, FBTcal, VR Gallery, Mixtape, Hexpad, Prisma, Flux and Focal, newest first.">
 <link rel="canonical" href="https://erik1028.github.io/news.html">
 <link rel="alternate" type="application/atom+xml" title="Erik1028's apps: new releases" href="feed.xml">
 <meta property="og:type" content="website">
